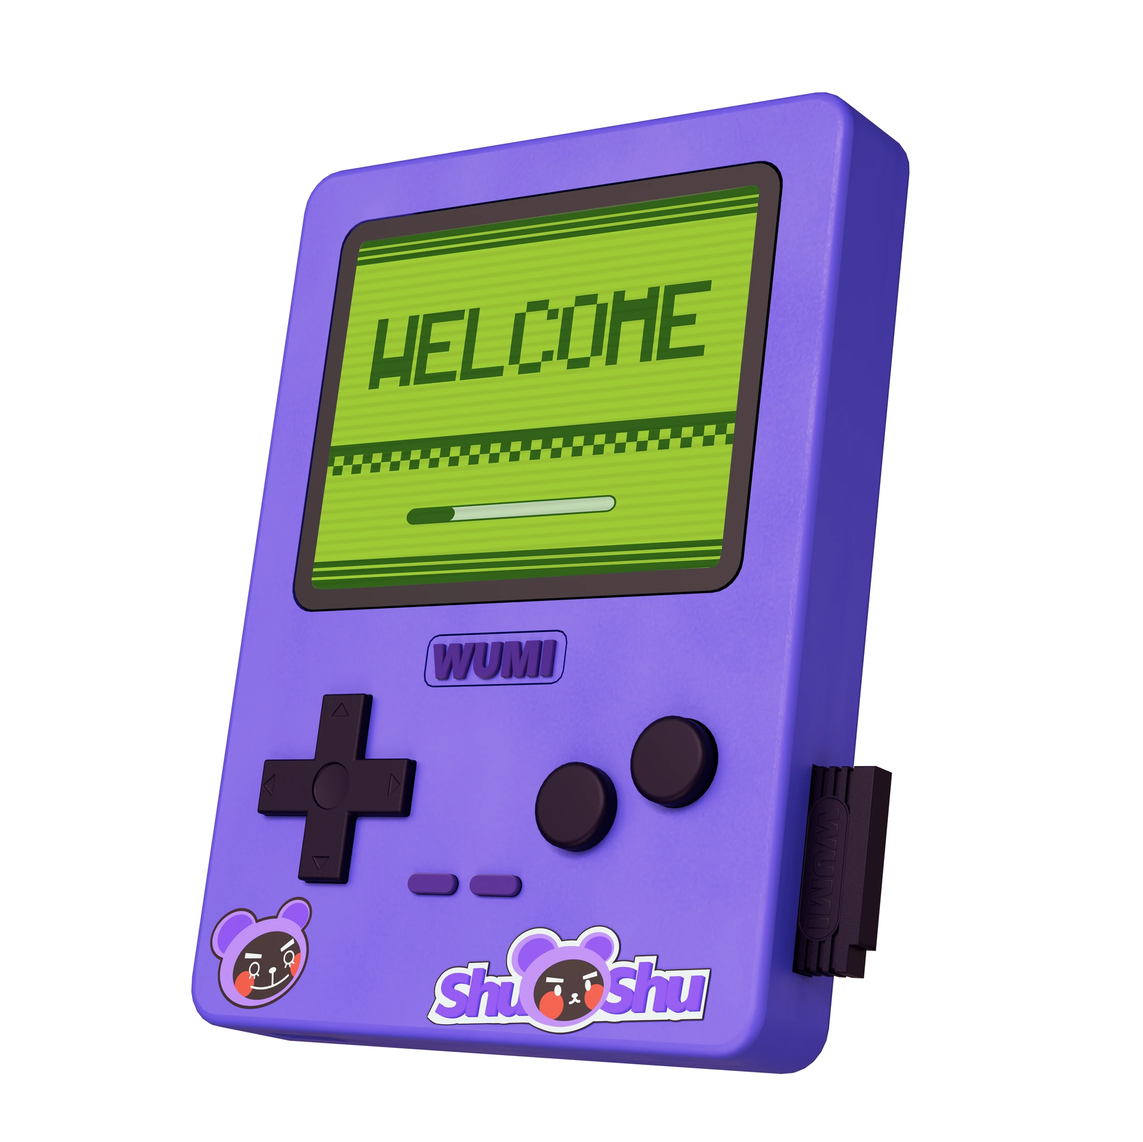
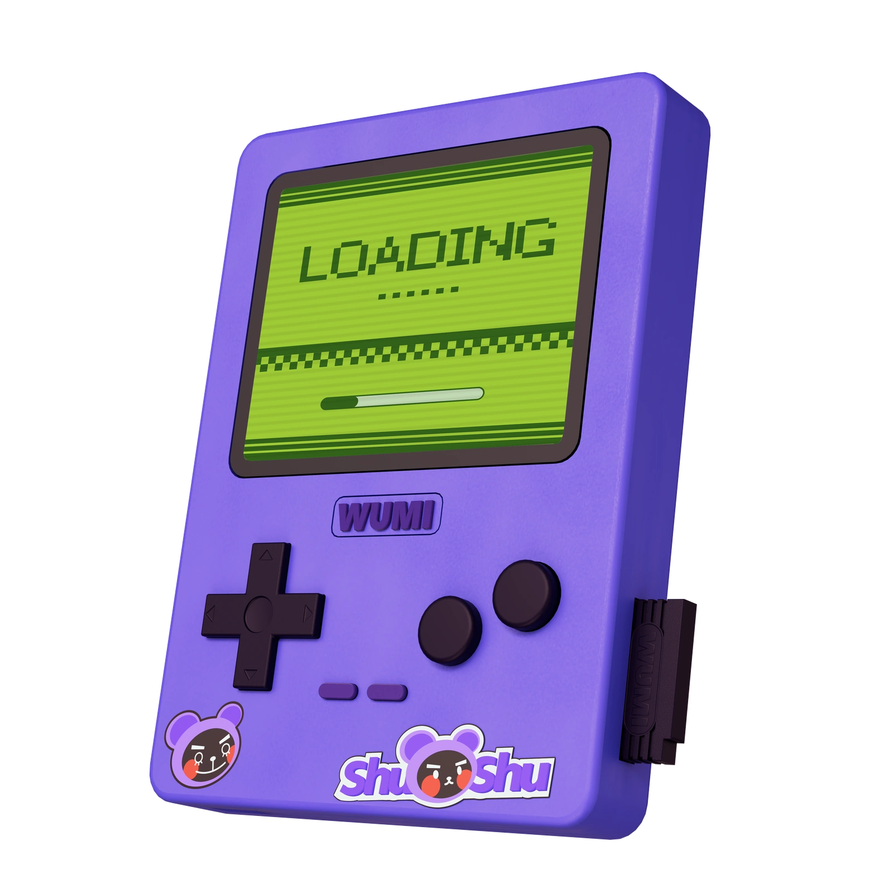
Update console and daily gallery artwork

Changed region(s): [[0.3125, 0.25, 0.625, 0.3438]]

diff --git a/app/globals.css b/app/globals.css
@@ -70,8 +70,6 @@ button { font:inherit; }
 .console-render-wrap { position:relative; aspect-ratio:1; transform:translate3d(var(--follow-x,0),var(--follow-y,0),0) rotateX(var(--follow-rotate-x,0deg)) rotateY(var(--follow-rotate-y,0deg)); transform-origin:50% 52%; transform-style:preserve-3d; transition:transform .16s cubic-bezier(.2,.75,.2,1); will-change:transform; }
 .hero.is-pointer-tracking .console-render-wrap { animation:none; }
 .console-render { position:relative; z-index:1; display:block; width:100%; height:100%; object-fit:contain; filter:drop-shadow(0 36px 50px rgba(0,0,0,.48)); user-select:none; -webkit-user-drag:none; }
-.console-load-progress { position:absolute; z-index:3; left:35.35%; top:43.35%; width:17.55%; height:.72%; overflow:hidden; border-radius:999px; transform:rotate(-4.25deg); transform-origin:left center; pointer-events:none; }
-.console-load-progress i { display:block; width:100%; height:100%; border-radius:inherit; background:#326513; transform:scaleX(.16); transform-origin:left center; animation:console-loading-progress 720ms cubic-bezier(.2,.72,.24,1) forwards; }
 .render-screen-overlay { position:absolute; z-index:2; inset:0; overflow:hidden; clip-path:polygon(31.2% 20.5%,66.7% 15.9%,63% 50.1%,25% 53.8%); background:transparent; animation:render-screen-in .24s ease both; }
 .render-project { position:absolute; inset:0; display:block; background:transparent; color:white; text-decoration:none; }
 .render-project>img { display:block; width:100%; height:100%; object-fit:contain; filter:none; }
@@ -233,24 +231,25 @@ button { font:inherit; }
 .bonus-game:hover>i { transform:translateX(5px); }
 .gallery-section { width:var(--frame-nav); margin:0 auto 170px; scroll-margin-top:110px; }
 .gallery-heading { display:grid; grid-template-columns:1.35fr .65fr; gap:40px; align-items:end; margin:55px 0 45px; }
-.gallery-heading p { margin:0 0 14px; color:var(--acid); font:700 10px/1.4 monospace; letter-spacing:.14em; }
+.gallery-heading p { margin:0 0 14px; color:var(--violet); font:700 10px/1.4 monospace; letter-spacing:.14em; }
 .gallery-heading h2 { margin:0; font-size:clamp(40px,5.2vw,72px); line-height:.95; letter-spacing:-.06em; }
-.gallery-heading>span { max-width:360px; justify-self:end; color:rgba(255,255,255,.46); font-size:13px; line-height:1.75; }
+.gallery-heading>span { max-width:360px; justify-self:end; color:rgba(255,255,255,.46); font-size:13px; line-height:1.75; text-align:right; }
 .daily-gallery-shell { position:relative; min-height:610px; isolation:isolate; }
 .daily-glass-panel { position:absolute; z-index:0; inset:88px 0 0; overflow:hidden; border:1px solid rgba(255,255,255,.17); border-radius:34px; background:linear-gradient(145deg,rgba(255,255,255,.105),rgba(112,88,255,.075) 52%,rgba(255,255,255,.035)); box-shadow:inset 0 1px rgba(255,255,255,.16),0 34px 90px rgba(0,0,0,.32); backdrop-filter:blur(28px) saturate(125%); }
 .daily-glass-panel:before { content:''; position:absolute; inset:0; background:radial-gradient(circle at 18% 5%,rgba(184,255,73,.12),transparent 31%),radial-gradient(circle at 82% 18%,rgba(117,70,239,.18),transparent 38%),linear-gradient(rgba(255,255,255,.03) 1px,transparent 1px),linear-gradient(90deg,rgba(255,255,255,.03) 1px,transparent 1px); background-size:auto,auto,34px 34px,34px 34px; }
 .daily-glass-panel>span,.daily-glass-panel>b,.daily-glass-panel>i { position:absolute; z-index:1; color:rgba(255,255,255,.4); font:700 8px/1 monospace; letter-spacing:.12em; }
 .daily-glass-panel>span { top:24px; left:28px; }
 .daily-glass-panel>b { right:28px; bottom:24px; }
-.daily-glass-panel>i { right:28px; top:20px; color:rgba(184,255,73,.65); font-size:18px; font-style:normal; }
+.daily-glass-panel>i { right:28px; top:20px; color:rgba(117,70,239,.82); font-size:18px; font-style:normal; }
 .daily-card-stage { position:relative; z-index:2; min-height:610px; display:flex; justify-content:center; align-items:flex-end; padding:88px 36px 84px; overflow:visible; perspective:1100px; }
-.daily-practice-card { position:relative; flex:0 0 clamp(155px,14.8vw,205px); aspect-ratio:.69; margin-left:clamp(-54px,-3.7vw,-34px); padding:13px; overflow:hidden; border:1px solid color-mix(in srgb,var(--daily-color),white 36%); border-radius:12px; background:linear-gradient(155deg,color-mix(in srgb,var(--daily-color),white 6%),var(--daily-color)); box-shadow:0 24px 44px rgba(0,0,0,.34),inset 0 1px rgba(255,255,255,.24); color:#09090b; text-align:left; cursor:pointer; transform:translateY(var(--daily-lift)) rotate(var(--daily-rotate)); transform-origin:50% 100%; transition:transform .55s cubic-bezier(.16,1,.3,1),filter .35s ease,box-shadow .4s ease,opacity .35s ease; }
+.daily-practice-card { position:relative; flex:0 0 clamp(155px,14.8vw,205px); aspect-ratio:385/501; margin-left:clamp(-54px,-3.7vw,-34px); padding:0; overflow:hidden; border:0; border-radius:9px; background:transparent; box-shadow:0 24px 44px rgba(0,0,0,.34); color:#09090b; text-align:left; cursor:pointer; transform:translateY(var(--daily-lift)) rotate(var(--daily-rotate)); transform-origin:50% 100%; transition:transform .55s cubic-bezier(.16,1,.3,1),filter .35s ease,box-shadow .4s ease,opacity .35s ease; }
 .daily-practice-card:first-child { margin-left:0; }
 .daily-practice-card:before { content:''; position:absolute; inset:0; background:linear-gradient(115deg,rgba(255,255,255,.2),transparent 32%); pointer-events:none; }
 .daily-practice-card:not(.is-active) { filter:saturate(.82) brightness(.88); }
 .daily-practice-card:hover,.daily-practice-card:focus-visible { z-index:8; outline:0; filter:saturate(1) brightness(1); transform:translateY(calc(var(--daily-lift) - 18px)) rotate(var(--daily-rotate)); }
 .daily-practice-card.is-active { z-index:12; filter:none; transform:translateY(-66px) rotate(0deg) scale(1.08); box-shadow:0 42px 75px color-mix(in srgb,var(--daily-color),transparent 68%),0 24px 60px rgba(0,0,0,.48),inset 0 1px rgba(255,255,255,.28); }
 .daily-practice-card.is-active:after { content:'SELECTED'; position:absolute; top:9px; right:10px; padding:5px 6px; border:1px solid rgba(0,0,0,.32); border-radius:999px; color:rgba(0,0,0,.7); font:800 6px/1 monospace; letter-spacing:.1em; }
+.daily-card-art { display:block; width:100%; height:100%; object-fit:contain; }
 .daily-placeholder { position:relative; display:grid; height:72%; place-items:center; overflow:hidden; border:1px solid rgba(0,0,0,.27); border-radius:7px; background:linear-gradient(rgba(0,0,0,.075) 1px,transparent 1px),linear-gradient(90deg,rgba(0,0,0,.075) 1px,transparent 1px),rgba(255,255,255,.2); background-size:18px 18px; }
 .daily-placeholder:before,.daily-placeholder:after { content:''; position:absolute; width:26px; height:26px; border-color:rgba(0,0,0,.34); }
 .daily-placeholder:before { top:9px; left:9px; border-top:1px solid; border-left:1px solid; }
@@ -262,10 +261,11 @@ button { font:inherit; }
 .daily-card-copy small { grid-column:1 / -1; font:800 6px/1 monospace; letter-spacing:.08em; }
 .daily-card-copy strong { overflow:hidden; font-size:clamp(15px,1.5vw,21px); line-height:1; white-space:nowrap; text-overflow:ellipsis; }
 .daily-card-copy>i { display:grid; width:25px; height:25px; place-items:center; border:1px solid rgba(0,0,0,.35); border-radius:50%; font-size:12px; font-style:normal; }
-.about-section { position:relative; width:var(--frame-nav); margin:120px auto; display:grid; grid-template-columns:minmax(300px,.39fr) minmax(0,.91fr); gap:45px; align-items:start; padding:30px; overflow:hidden; border:1px solid rgba(255,255,255,.12); border-radius:30px; background:rgba(255,255,255,.028); isolation:isolate; --about-purple:#7546ef; }
+.about-section { position:relative; width:var(--frame-nav); margin:120px auto; display:grid; grid-template-columns:minmax(300px,.39fr) minmax(0,.91fr); grid-template-rows:auto 1fr; column-gap:45px; row-gap:28px; align-items:stretch; padding:30px; overflow:hidden; border:1px solid rgba(255,255,255,.12); border-radius:30px; background:rgba(255,255,255,.028); isolation:isolate; --about-purple:#7546ef; }
 .about-section:before { content:''; position:absolute; z-index:-2; inset:0; background:linear-gradient(145deg,rgba(117,70,239,.11),rgba(255,255,255,.035) 38%,rgba(8,8,12,.38)),linear-gradient(rgba(255,255,255,.025) 1px,transparent 1px),linear-gradient(90deg,rgba(255,255,255,.025) 1px,transparent 1px); background-size:auto,34px 34px,34px 34px; backdrop-filter:blur(24px) saturate(115%); }
 .about-section:after { content:''; position:absolute; z-index:-1; left:12%; right:8%; bottom:-34%; height:62%; background:radial-gradient(ellipse at center,rgba(117,70,239,.18),transparent 66%); filter:blur(35px); pointer-events:none; }
-.about-profile-card { position:relative; min-height:530px; padding:20px 20px 22px; overflow:hidden; border:1px solid color-mix(in srgb,var(--about-purple),white 12%); border-radius:24px; background:linear-gradient(150deg,rgba(117,70,239,.16),rgba(19,17,27,.94) 42%,rgba(8,8,10,.98)); }
+.about-index-heading { grid-column:1 / -1; display:flex; justify-content:space-between; align-items:center; min-height:36px; padding:0 10px 13px; border-bottom:1px solid rgba(255,255,255,.28); color:rgba(255,255,255,.48); font-size:10px; font-weight:800; line-height:1; letter-spacing:.07em; }
+.about-profile-card { position:relative; height:100%; min-height:530px; padding:20px 20px 22px; overflow:hidden; border:1px solid color-mix(in srgb,var(--about-purple),white 12%); border-radius:24px; background:linear-gradient(150deg,rgba(117,70,239,.16),rgba(19,17,27,.94) 42%,rgba(8,8,10,.98)); }
 .about-profile-card:before { content:''; position:absolute; inset:11px; border:1px solid rgba(117,70,239,.15); border-radius:17px; pointer-events:none; }
 .about-card-head { position:relative; z-index:2; display:flex; justify-content:space-between; align-items:start; }
 .about-card-head div { display:flex; flex-direction:column; gap:6px; }
@@ -288,7 +288,7 @@ button { font:inherit; }
 .about-contact-placeholder div { display:flex; flex-direction:column; gap:6px; min-width:0; }
 .about-contact-placeholder span { color:var(--about-purple); font-size:11px; font-weight:800; line-height:1; letter-spacing:.05em; }
 .about-contact-placeholder b { overflow:hidden; color:rgba(255,255,255,.68); font-size:11px; line-height:1.35; white-space:nowrap; text-overflow:ellipsis; }
-.about-content { padding-top:4px; }
+.about-content { height:100%; padding-top:4px; }
 .about-title-row { display:flex; align-items:center; gap:24px; }
 .about-title-row h2 { margin:0; color:#f4f3ef; font-size:clamp(58px,5.7vw,88px); line-height:.82; letter-spacing:-.065em; }
 .about-intro-label { display:flex; align-items:center; gap:22px; margin:24px 0 22px; color:var(--about-purple); font-size:clamp(22px,1.8vw,28px); font-weight:800; }
@@ -306,6 +306,7 @@ button { font:inherit; }
 .about-timeline h4 { margin:0; font-size:16px; }
 .about-job-heading>b { color:rgba(255,255,255,.64); font-size:11px; }
 .about-timeline p { margin:8px 0 0; color:rgba(255,255,255,.42); font-size:11px; line-height:1.7; }
+.about-timeline .about-job-summary { margin:0; overflow:hidden; color:rgba(255,255,255,.58); font-size:11px; line-height:1.65; white-space:nowrap; text-overflow:clip; }
 .about-timeline ul { margin:0; padding-left:1.1em; color:rgba(255,255,255,.58); font-size:13px; line-height:1.62; }
 .about-timeline li+li { margin-top:4px; }
 .contact-section { position:relative; width:var(--frame-nav); margin:110px auto 80px; padding:38px 0 25px; overflow:hidden; text-align:center; isolation:isolate; scroll-margin-top:110px; }
@@ -398,16 +399,15 @@ footer a { text-decoration:none; color:var(--acid); }
 @keyframes console-idle { 0%,100% { transform:translateY(0); } 50% { transform:translateY(-6px); } }
 @keyframes render-screen-in { from { opacity:0; filter:brightness(2); } 55% { opacity:1; filter:brightness(1.35); } to { opacity:1; filter:brightness(1); } }
 @keyframes render-screen-load { 0% { transform:scaleX(0); } 32% { transform:scaleX(.2); } 74% { transform:scaleX(.72); } 100% { transform:scaleX(1); } }
-@keyframes console-loading-progress { to { transform:scaleX(1); } }
 @media (hover:none) and (min-width:601px) { .hero-cartridge-fan .fan-cartridge { pointer-events:auto; opacity:1; filter:blur(0); transform:translate(calc(-50% + var(--fan-x)),calc(-50% + var(--fan-y))) rotate(var(--fan-r)) scale(1); } }
 @media (max-width:900px) { .project-index { margin-top:30px; } .project-index-intro { grid-template-columns:1fr; margin:48px 0 55px; } .project-index-intro>span { max-width:520px; } .project-row-trigger { grid-template-columns:44px minmax(210px,1fr) 130px 70px 44px; gap:12px; } .project-row-detail>div>div { grid-template-columns:1fr; padding:5px 44px 44px 68px; } .project-row-image { min-height:48vw; } .project-row-copy { display:grid; grid-template-columns:1fr 1fr; gap:22px; } .project-row-copy>p { margin:0; } .project-row-copy dl { margin:0; } .project-row-copy>a { grid-column:1 / -1; } }
-@media (max-width:900px) { .hero { height:auto; min-height:900px; padding-top:40px; } .hero-backdrop-word { bottom:5%; font-size:19vw; } .hero-copy { position:relative; top:auto; left:auto; max-width:100%; } .console-stage { top:52%; width:min(96vw,720px); } .hero-aside { display:none; } .cartridge-dock { margin-top:-55px; } .cartridge-list { grid-template-columns:repeat(2,1fr); row-gap:32px; } .library-intro,.gallery-heading { grid-template-columns:1fr; } .gallery-heading>span { justify-self:start; } .bonus-grid,.about-section,.contact-section { grid-template-columns:1fr; } .about-section,.contact-section { gap:70px; } }
+@media (max-width:900px) { .hero { height:auto; min-height:900px; padding-top:40px; } .hero-backdrop-word { bottom:5%; font-size:19vw; } .hero-copy { position:relative; top:auto; left:auto; max-width:100%; } .console-stage { top:52%; width:min(96vw,720px); } .hero-aside { display:none; } .cartridge-dock { margin-top:-55px; } .cartridge-list { grid-template-columns:repeat(2,1fr); row-gap:32px; } .library-intro,.gallery-heading { grid-template-columns:1fr; } .gallery-heading>span { justify-self:start; } .bonus-grid,.about-section,.contact-section { grid-template-columns:1fr; } .about-section { grid-template-rows:auto auto auto; row-gap:45px; } .contact-section { gap:70px; } }
 @media (max-width:900px) { .contact-card-grid { grid-template-columns:repeat(3,minmax(0,1fr)); max-width:740px; margin-inline:auto; } }
 @media (max-width:900px) { .daily-gallery-shell,.daily-card-stage { min-height:555px; } .daily-card-stage { justify-content:flex-start; padding-inline:32px; overflow-x:auto; overflow-y:hidden; scrollbar-width:none; } .daily-card-stage::-webkit-scrollbar { display:none; } .daily-practice-card { flex-basis:170px; margin-left:-36px; } }
-@media (max-width:900px) { .about-profile-card { width:min(520px,100%); min-height:auto; justify-self:center; } .about-content { width:100%; } }
+@media (max-width:900px) { .about-profile-card { width:min(520px,100%); height:auto; min-height:auto; justify-self:center; } .about-content { width:100%; height:auto; } .about-timeline .about-job-summary { white-space:normal; } }
 @media (max-width:900px) { .manual-hero { grid-template-columns:1fr; gap:55px; } .manual-title { padding-right:0; } .manual-title>span { margin-top:30px; } .manual-cover { height:55vw; min-height:420px; } .chapter-grid,.next-game { grid-template-columns:1fr; } .story-blocks { margin-top:20px; } }
 @media (max-width:600px) { .top-nav { height:52px; grid-template-columns:auto 1fr auto; gap:2px; padding:4px; } .wordmark { gap:4px; padding:0 7px; } .nav-brand-name { font-size:17px; } .nav-brand-dot { width:6px; height:6px; } .nav-monogram { width:42px; height:42px; font-size:11px; } .nav-role { display:none; } .nav-links { gap:0; font-size:8px; } .nav-links a { padding:12px 7px; } .nav-language { width:34px; height:34px; font-size:9px; } .hero { min-height:745px; padding:30px 18px 0; } .hero-backdrop-word { bottom:8%; width:120%; font-size:23vw; opacity:.78; } .hero-copy h1 { font-size:36px; max-width:390px; } .hero-cartridge-fan { display:none; } .console-stage { top:54%; width:min(118vw,540px); } .action-buttons { gap:10px; } .action-buttons i { width:43px; } .system-buttons i { width:34px; } .cartridge-dock { width:calc(100% - 20px); margin-top:-25px; padding:16px 12px 22px; } .cartridge-list { gap:12px; padding-inline:0; } .cartridge-shell { width:94%; } .cartridge-caption b { font-size:11px; } .dock-heading { font-size:8px; } .library-section,.about-section,.contact-section { margin-block:95px; } .bonus-game { grid-template-columns:1fr; grid-template-rows:auto auto 1fr; } .bonus-slot-bar { font-size:7px; } .bonus-image { min-height:220px; } .profile-main { grid-template-columns:88px 1fr; gap:15px; padding-block:35px; } .avatar { width:88px; } .avatar strong { font-size:38px; } .profile-main h2 { font-size:42px; } .stat-list div { grid-template-columns:83px 1fr 20px; } .friend-card { padding:20px; box-shadow:8px 8px 0 #b8ff49; } .friend-name strong { font-size:45px; } footer { font-size:7px; } }
-@media (max-width:600px) { .about-section { width:calc(100% - 20px); gap:45px; padding:15px; border-radius:22px; } .about-profile-card { padding:18px; } .about-portrait-placeholder { min-height:280px; } .about-contact-placeholder { grid-template-columns:1fr; } .about-title-row { gap:14px; } .about-title-row h2 { font-size:50px; } .about-placeholder-copy { font-size:14px; line-height:1.7; } .about-experience-block>h3 { font-size:23px; } .about-timeline article { grid-template-columns:1fr; gap:10px; } .about-timeline time { grid-row:1; text-align:left; } .about-job { grid-row:2; } }
+@media (max-width:600px) { .about-section { width:calc(100% - 20px); row-gap:40px; padding:15px; border-radius:22px; } .about-index-heading { padding-inline:4px; font-size:8px; } .about-index-heading span:last-child { display:none; } .about-profile-card { padding:18px; } .about-portrait-placeholder { min-height:280px; } .about-contact-placeholder { grid-template-columns:1fr; } .about-title-row { gap:14px; } .about-title-row h2 { font-size:50px; } .about-placeholder-copy { font-size:14px; line-height:1.7; } .about-experience-block>h3 { font-size:23px; } .about-timeline article { grid-template-columns:1fr; gap:10px; } .about-timeline time { grid-row:1; text-align:left; } .about-job { grid-row:2; } }
 @media (max-width:600px) { .contact-section { width:calc(100% - 20px); padding-top:28px; } .contact-section>h2 { margin-top:0; font-size:52px; } .contact-message { padding-inline:14px; font-size:12px; } .contact-card-grid { grid-template-columns:minmax(0,220px); gap:14px; margin-top:40px; } .contact-method-card { border-radius:22px; } .contact-method-icon { width:56px; height:56px; margin-bottom:18px; } }
 @media (max-width:600px) { .top-nav { top:10px; width:calc(100% - 20px); border-radius:999px; } .hero { padding-top:102px; } .project-index { width:calc(100% - 20px); margin-bottom:100px; } .project-index .section-index span:last-child,.gallery-section .section-index span:last-child,.work-placeholder-heading span:last-child { display:none; } .work-placeholder-heading { padding-inline:12px; } .project-index-intro { padding-inline:6px; } .project-index-intro h2 { font-size:40px; } .project-groups { gap:55px; } .project-group-heading { grid-template-columns:35px 1fr; padding-inline:12px; } .project-group-heading>small { display:none; } .project-row-trigger { min-height:92px; grid-template-columns:34px minmax(0,1fr) 40px; gap:10px; padding:12px; } .project-row-trigger>small,.project-row-trigger>em { display:none; } .project-row-trigger>strong { font-size:23px; } .project-row-trigger>i { width:38px; } .project-row-detail>div>div { padding:0 12px 30px; gap:20px; } .project-row-image { min-height:230px; border-radius:16px; } .project-row-copy { display:block; } .project-row-copy>p { margin-bottom:22px; font-size:13px; } .project-row-copy dl { margin-bottom:22px; } .project-row-copy>a { margin-top:0; } .gallery-section { width:calc(100% - 20px); margin-bottom:105px; } .gallery-heading { margin:42px 6px 30px; } .gallery-heading h2 { font-size:40px; } .gallery-grid { grid-template-columns:1fr; gap:14px; } .gallery-card { min-height:290px; border-radius:18px; } }
 @media (max-width:600px) { .daily-gallery-shell,.daily-card-stage { min-height:485px; } .daily-glass-panel { inset:65px 0 0; border-radius:24px; } .daily-card-stage { padding:70px 18px 64px; scroll-padding-left:18px; } .daily-practice-card { flex-basis:155px; margin-left:-25px; } .daily-practice-card.is-active { transform:translateY(-45px) rotate(0) scale(1.04); } .daily-glass-panel>b { display:none; } }

diff --git a/app/page.tsx b/app/page.tsx
@@ -35,12 +35,12 @@ const workPlaceholders = [
 ];
 
 const dailyPracticeCards = [
-  { id: '01', title: 'DAILY 01', color: '#4f907d', lift: '18px', rotate: '-6deg' },
-  { id: '02', title: 'DAILY 02', color: '#7192f2', lift: '2px', rotate: '-3deg' },
-  { id: '03', title: 'DAILY 03', color: '#ff724d', lift: '-8px', rotate: '3deg' },
-  { id: '04', title: 'DAILY 04', color: '#a72e58', lift: '7px', rotate: '-2deg' },
-  { id: '05', title: 'DAILY 05', color: '#d995ef', lift: '-2px', rotate: '5deg' },
-  { id: '06', title: 'DAILY 06', color: '#d8e66f', lift: '20px', rotate: '7deg' },
+  { id: '01', title: 'DAILY 01', image: '/daily/01.png', color: '#70cf69', lift: '18px', rotate: '-6deg' },
+  { id: '02', title: 'DAILY 02', image: '/daily/02.png', color: '#ef91bf', lift: '2px', rotate: '-3deg' },
+  { id: '03', title: 'DAILY 03', image: '/daily/03.png', color: '#76bde7', lift: '-8px', rotate: '3deg' },
+  { id: '04', title: 'DAILY 04', image: '/daily/04.png', color: '#7bc9ca', lift: '7px', rotate: '-2deg' },
+  { id: '05', title: 'DAILY 05', image: '/daily/05.png', color: '#66a9d5', lift: '-2px', rotate: '5deg' },
+  { id: '06', title: 'DAILY 06', image: '/daily/06.png', color: '#e9bd50', lift: '20px', rotate: '7deg' },
 ];
 
 export default function Home() {
@@ -188,7 +188,6 @@ export default function Home() {
               src={isScreenLoading ? '/console-loading.webp' : '/console-wumi.webp'}
               alt={isScreenLoading ? 'WUMI 掌上游戏机正在载入项目' : 'WUMI 紫色掌上游戏机'}
             />
-            {isScreenLoading && <span className="console-load-progress" aria-hidden="true"><i /></span>}
             {active && !isScreenLoading && (
               <div className="render-screen-overlay" key={active.id}>
                 <a className="render-project" href={`/work/${active.slug}`} aria-label={`进入${active.title}项目`}>
@@ -206,8 +205,8 @@ export default function Home() {
 
       <section className="project-index" id="work" aria-label="项目分类" data-reveal>
         <div className="work-placeholder-heading">
-          <span>01 / WORK INDEX</span>
-          <span>HOVER TO PREVIEW — CONTENT COMING SOON</span>
+          <span>01 / WORK PROJECT</span>
+          <span>Welcome to view my portfolio.</span>
         </div>
         <div className="project-rows work-placeholder-list">
           {workPlaceholders.map((project) => {
@@ -248,10 +247,10 @@ export default function Home() {
       </section>
 
       <section className="gallery-section" id="gallery" aria-labelledby="gallery-title" data-reveal>
-        <div className="section-index"><span>03 / DAILY GALLERY</span><span>06 PRACTICE CARDS — IMAGES COMING SOON</span></div>
+        <div className="section-index"><span>02 / DAILY GALLERY</span><span>Welcome to view my portfolio.</span></div>
         <div className="gallery-heading">
           <div><p>VISUAL NOTES</p><h2 id="gallery-title">DAILY PRACTICE</h2></div>
-          <span>modeling &amp; AI art. Hope you enjoy! More works to come, stay tuned.</span>
+          <span>modeling &amp; AI art. Hope you enjoy! More works to come stay tuned.</span>
         </div>
         <div className="daily-gallery-shell">
           <div className="daily-glass-panel" aria-hidden="true">
@@ -276,16 +275,7 @@ export default function Home() {
                   '--daily-index': index,
                 } as React.CSSProperties}
               >
-                <span className="daily-placeholder">
-                  <small>IMAGE PLACEHOLDER</small>
-                  <b>{card.id}</b>
-                  <i>ARTWORK TO BE ADDED</i>
-                </span>
-                <span className="daily-card-copy">
-                  <small>DAILY PRACTICE / {card.id}</small>
-                  <strong>{card.title}</strong>
-                  <i aria-hidden="true">↗</i>
-                </span>
+                <img className="daily-card-art" src={card.image} alt={`${card.title} 练习作品`} />
               </button>
             ))}
           </div>
@@ -293,6 +283,10 @@ export default function Home() {
       </section>
 
       <section className="about-section" id="about" aria-labelledby="about-title" data-reveal>
+        <div className="about-index-heading">
+          <span>03 / ABOUT PROFILE</span>
+          <span>DESIGNER PROFILE — YANGTING / 2026</span>
+        </div>
         <div className="about-profile-card">
           <div className="about-card-head">
             <div><b>PROFILE FILE</b><span>VISUAL DESIGNER</span></div>
@@ -326,11 +320,11 @@ export default function Home() {
             <h3>工作经历</h3>
             <div className="about-timeline">
               <article>
-                <div className="about-job"><div className="about-job-heading"><h4>广州灵动创想科技有限公司</h4><b>平面设计师</b></div><ul><li>独立完成食玩的线上线下视觉方案，高效产出产品详情长图、宣传物料等多样化设计内容，精准匹配 IP 调性与产品卖点。</li><li>参与品牌展会快闪店、终端陈列展陈的空间视觉设计，打造兼具商品展示与打卡互动的线下消费场景。</li><li>跟进设计落地全流程，熟悉包装材质特性与印刷工艺，维护 IP 衍生产品的视觉语言一致性。</li></ul></div>
+                <div className="about-job"><div className="about-job-heading"><h4>广州灵动创想科技有限公司</h4><b>平面设计师</b></div><p className="about-job-summary">负责食玩项目线上线下视觉、产品详情与宣传物料设计，并参与展会快闪、终端陈列及包装印刷落地，持续维护 IP 衍生产品视觉一致性。</p></div>
                 <time>2025.12 — 2026.05</time>
               </article>
               <article>
-                <div className="about-job"><div className="about-job-heading"><h4>广州昌邻餐饮管理有限公司</h4><b>平面设计师</b></div><ul><li>独立完成品牌新品上市、日常营销活动的线上线下视觉方案，高效产出海报、Banner、宣传单页等多样化物料。</li><li>多次负责参与项目周边新品设计，了解包装材质特性及后期印刷工艺，深入参与从概念构思到落地的全流程。</li><li>维护与拓展品牌视觉形象，确保品牌设计语言的一致性，并灵活应对部门临时性设计需求。</li></ul></div>
+                <div className="about-job"><div className="about-job-heading"><h4>广州昌邻餐饮管理有限公司</h4><b>平面设计师</b></div><p className="about-job-summary">负责品牌新品上市与日常营销视觉、海报及 Banner 等物料设计，参与周边包装从概念到印刷落地，并持续维护品牌视觉一致性。</p></div>
                 <time>2023.03 — 2025.06</time>
               </article>
             </div>
